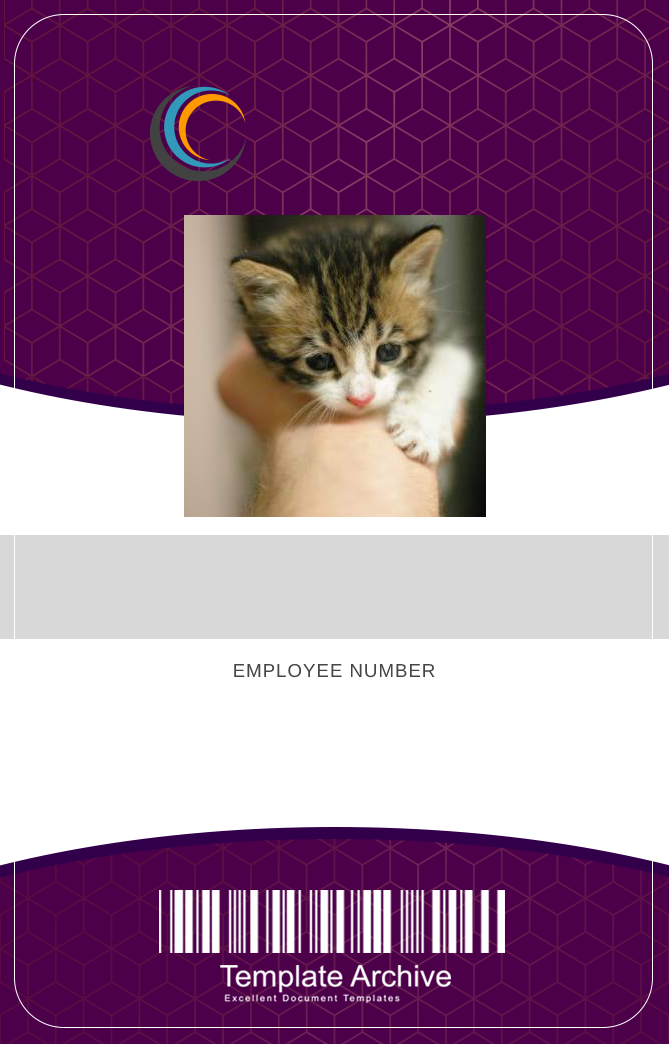
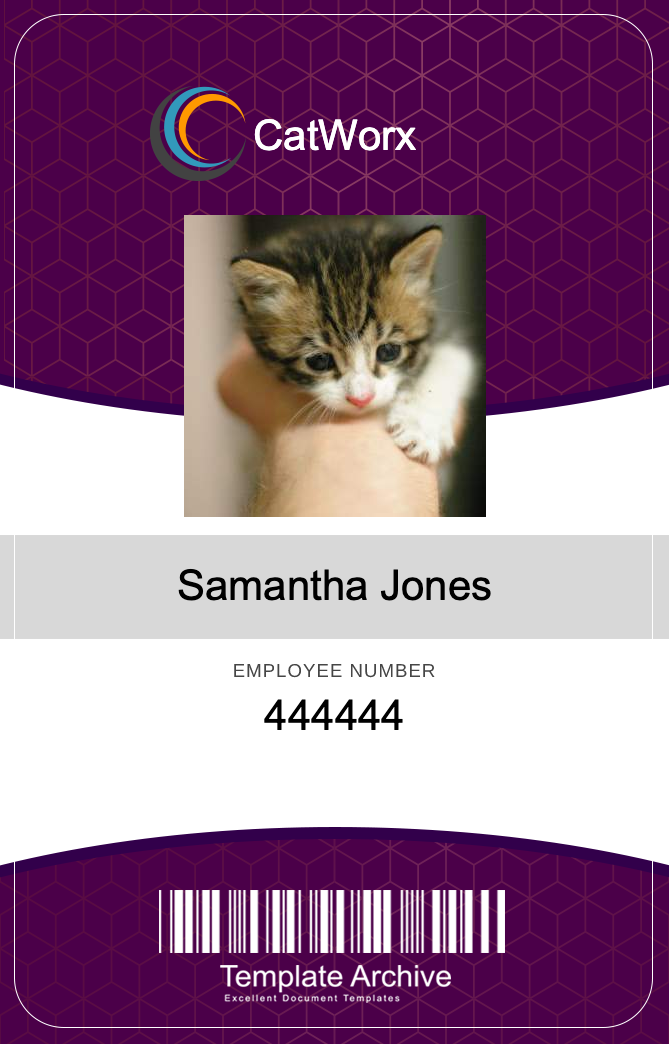
Print employee's info to badge + style w SKPaint

Changed region(s): [[0.2691, 0.5211, 0.7474, 0.5824], [0.3587, 0.092, 0.6278, 0.1533], [0.3886, 0.6743, 0.5979, 0.705]]

diff --git a/CatWorx.BadgeMaker/Util.cs b/CatWorx.BadgeMaker/Util.cs
@@ -51,6 +51,10 @@ namespace CatWorx.BadgeMaker
             int PHOTO_RIGHT_X = 486;
             int PHOTO_BOTTOM_Y = 517;
 
+            int COMPANY_NAME_Y = 150;
+            int EMPLOYEE_NAME_Y = 600;
+            int EMPLOYEE_ID_Y = 730;
+
             using(HttpClient client = new HttpClient())
             {
                 for (int i = 0; i < employees.Count; i++)
@@ -63,6 +67,22 @@ namespace CatWorx.BadgeMaker
 
                     canvas.DrawImage(background, new SKRect(0, 0, BADGE_WIDTH, BADGE_HEIGHT));
                     canvas.DrawImage(photo, new SKRect(PHOTO_LEFT_X, PHOTO_TOP_Y, PHOTO_RIGHT_X, PHOTO_BOTTOM_Y));
+
+                    SKPaint paint = new SKPaint();
+                    paint.TextSize = 42.0f;
+                    paint.IsAntialias = true;
+                    paint.Color = SKColors.White;
+                    paint.IsStroke = false;
+                    paint.TextAlign = SKTextAlign.Center;
+                    paint.Typeface = SKTypeface.FromFamilyName("Arial");
+
+                    canvas.DrawText(employees[i].GetCompanyName(), BADGE_WIDTH / 2f, COMPANY_NAME_Y, paint);
+
+                    paint.Color = SKColors.Black;
+                    canvas.DrawText(employees[i].GetFullName(), BADGE_WIDTH / 2f, EMPLOYEE_NAME_Y, paint);
+
+                    paint.Color = SKColors.Black;
+                    canvas.DrawText(employees[i].GetId().ToString(), BADGE_WIDTH / 2f, EMPLOYEE_ID_Y, paint);
 
                     SKImage finalImage = SKImage.FromBitmap(badge);
                     SKData data = finalImage.Encode();

diff --git a/CatWorx.BadgeMaker/Employee.cs b/CatWorx.BadgeMaker/Employee.cs
@@ -26,5 +26,9 @@ namespace CatWorx.BadgeMaker
         public string GetFullName() {
             return FirstName + " " + LastName;
         }
+
+        public string GetCompanyName() {
+            return "CatWorx";
+        }
     }
 }
